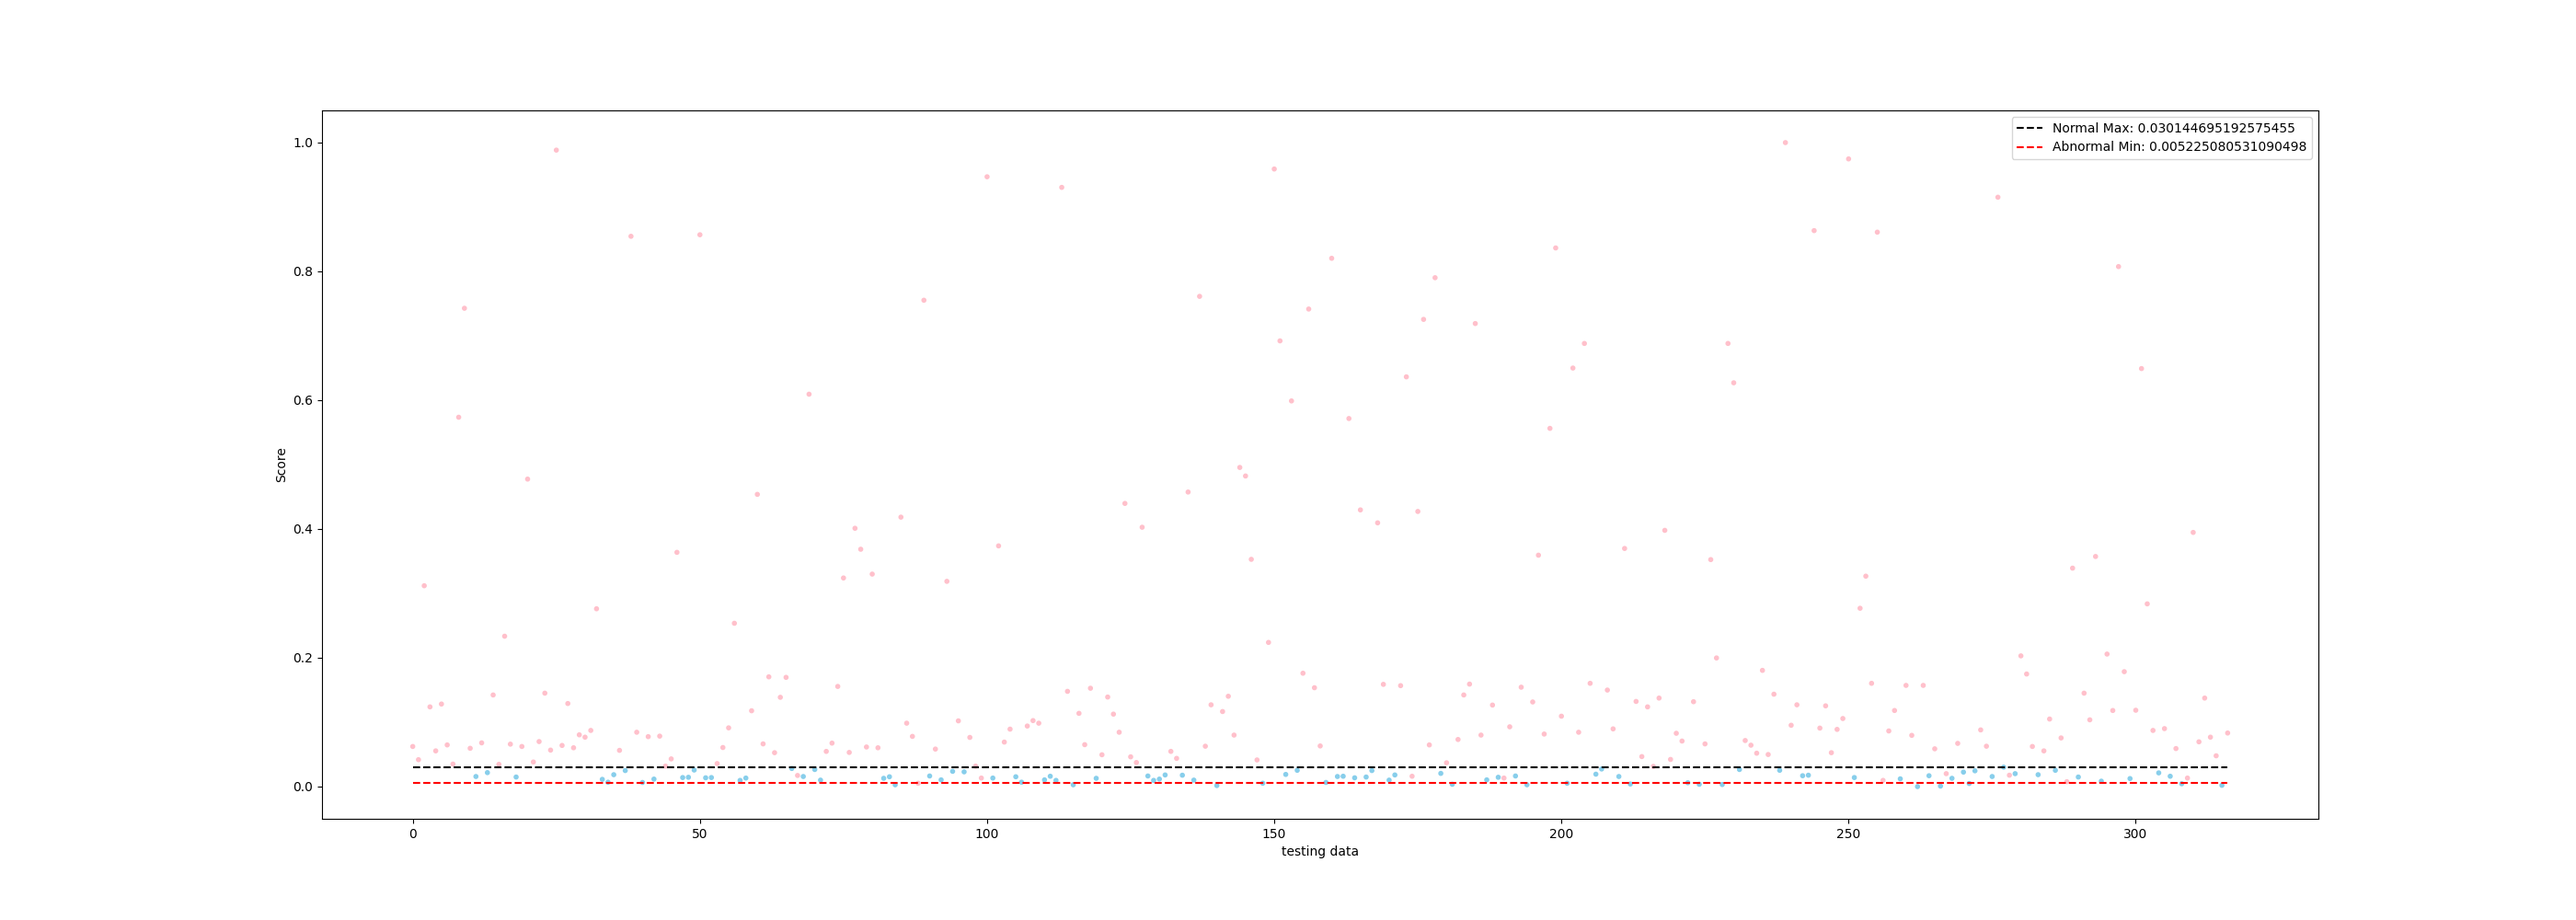
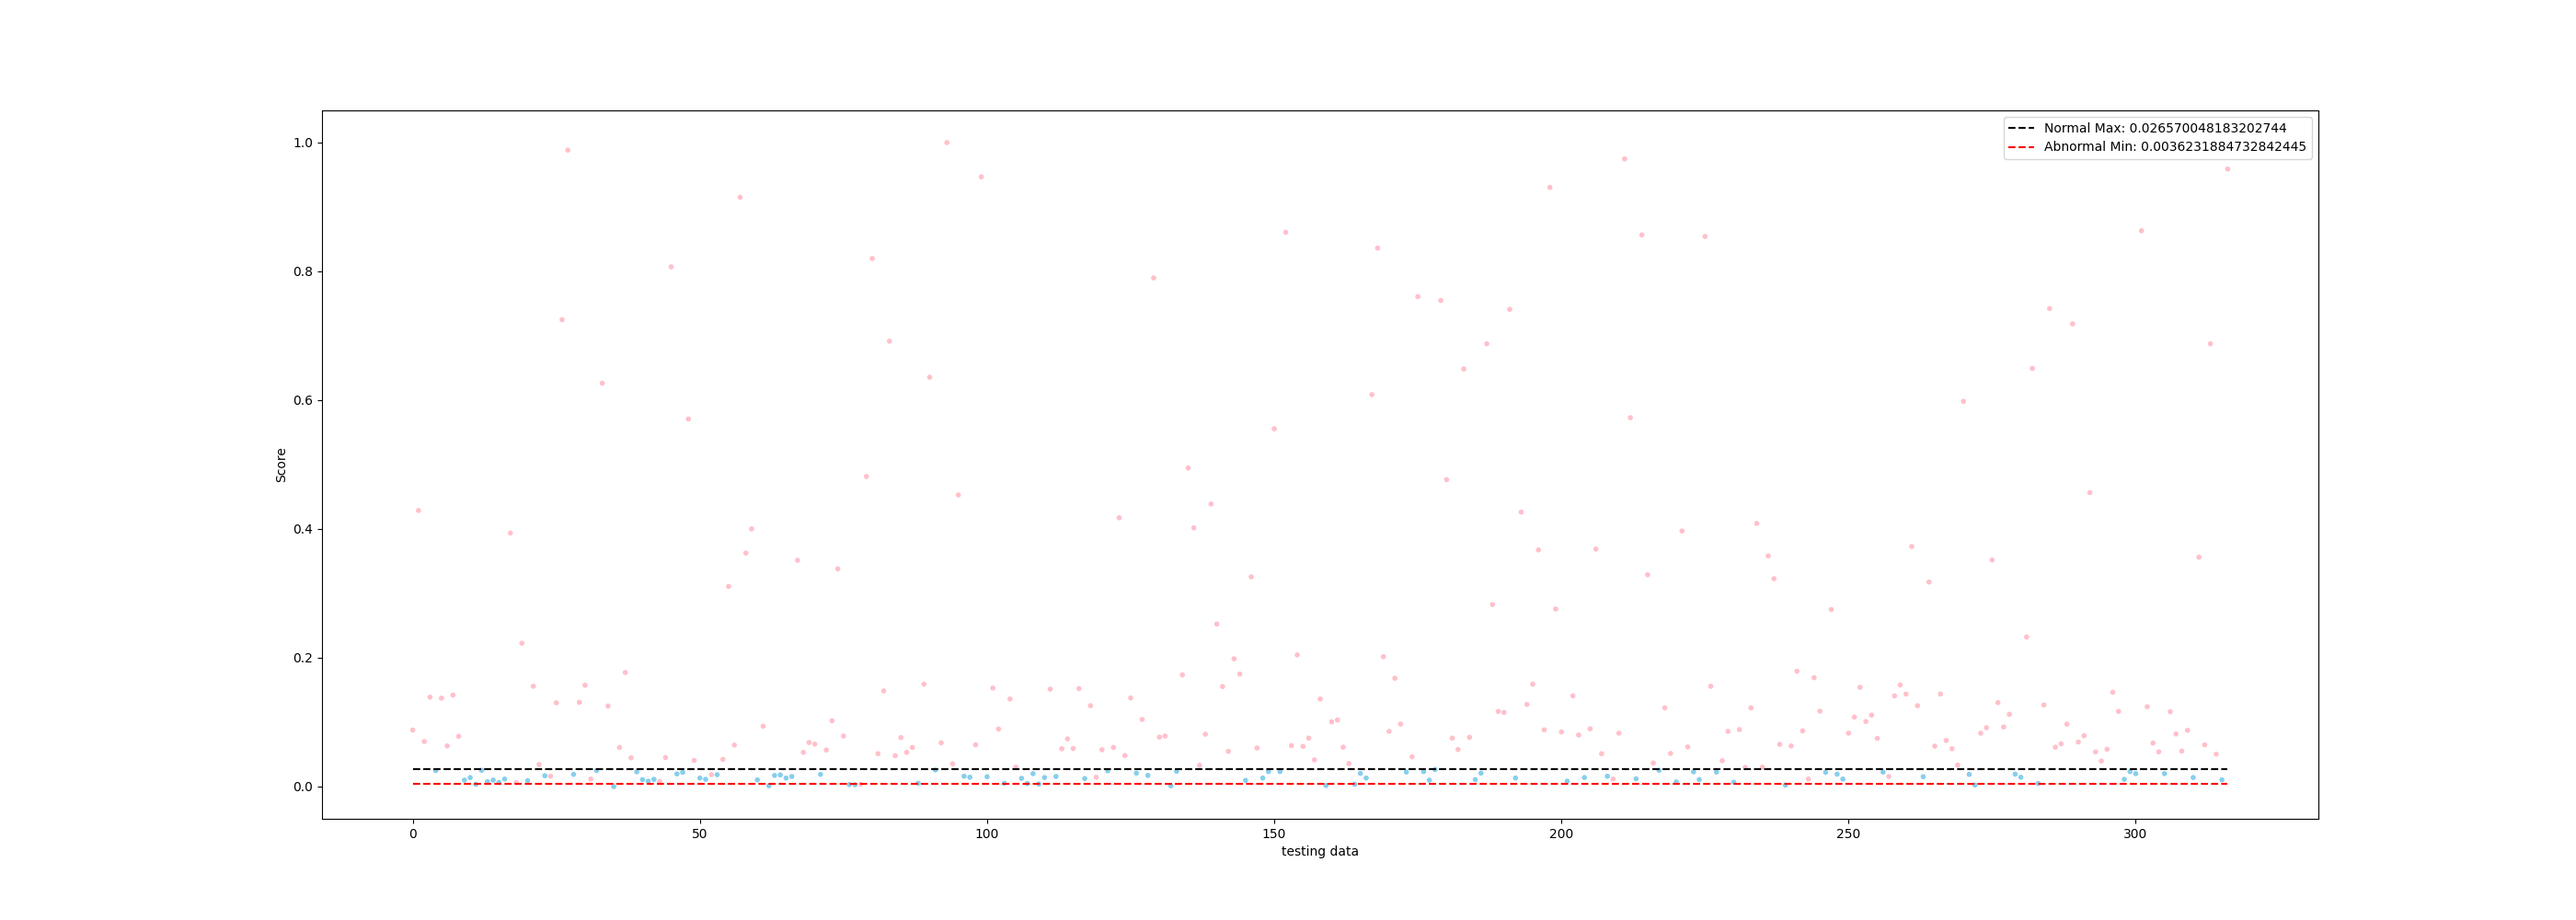
comment training code

Changed region(s): [[0.1554, 0.806, 0.87, 0.868], [0.7768, 0.124, 0.9011, 0.186]]

diff --git a/main.py b/main.py
@@ -213,8 +213,8 @@ if __name__ == "__main__":
     
     ganomaly = GANomaly()
     
-    #! for load trained model, use this line
-    #ganomaly.load_model()
+    #? for load trained model, use this line
+    ganomaly.load_model()
     
     (g_e, g, e, f_e, d) = ganomaly.getModel()
     gantrainer = GANtrainer(g_e, g, e, f_e)
@@ -229,8 +229,8 @@ if __name__ == "__main__":
     checkpoint_dir = './training_checkpoints'
     
     #! for training use this line
-    train(x_train, gTrainer, g_e, g, e, f_e, d, checkpoint, checkpoint_dir, [normal,abnormal], bz=16, epoch=2000, )
-    ganomaly.saveModel()
+    #train(x_train, gTrainer, g_e, g, e, f_e, d, checkpoint, checkpoint_dir, [normal,abnormal], bz=16, epoch=2000, )
+    #ganomaly.saveModel()
     
     generate_GIF()
     (final_ganX, normal_score, abnormal_score, score) = final_evaluate(g,g_e, normal, confidence_rate=0.995, score_rate=scoreRate)
@@ -239,9 +239,9 @@ if __name__ == "__main__":
     svm = SVM_classifier(normal=normal_score, abnormal=abnormal_score, testSize=0.2)
     
     #! for training use this line
-    svm.train()
+    #svm.train()
     
-    #! for load trained model, use this line
+    #? for load trained model, use this line
     svm.load_model()
     
     X_test_on_SVM, predict_result, y_test_actual =  svm.accuracy_on_test()
